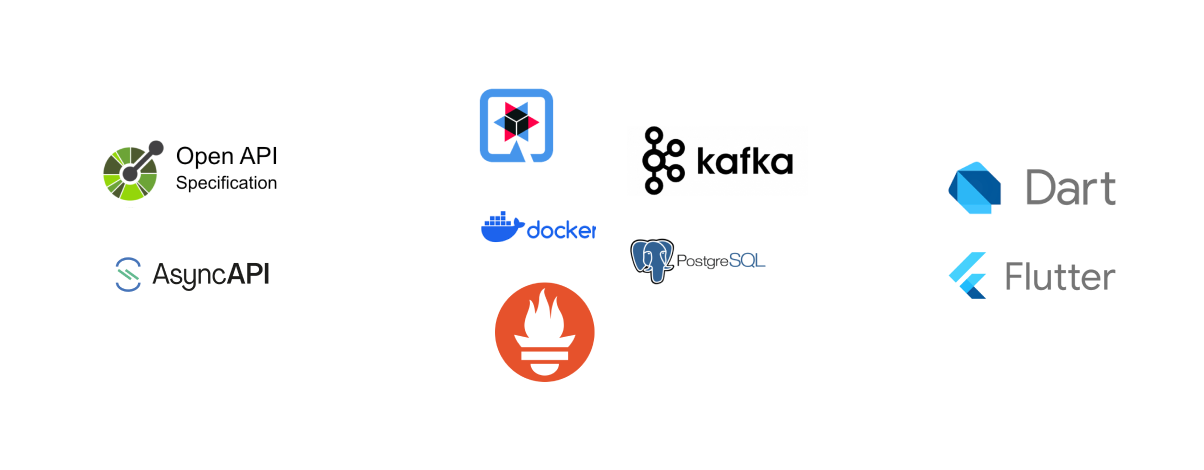
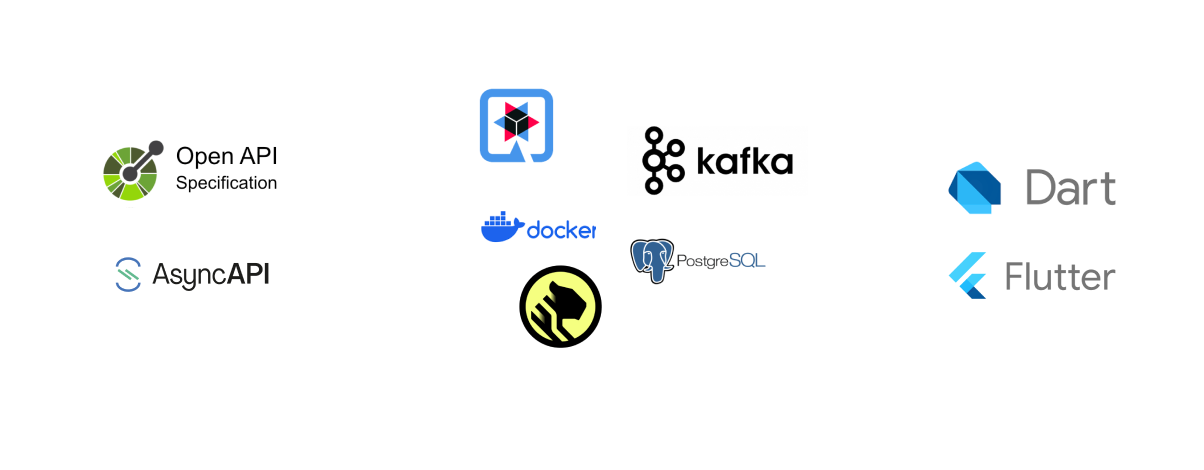
#1 changed picture

Changed region(s): [[0.3995, 0.566, 0.5224, 0.834]]

diff --git a/README.md b/README.md
@@ -56,7 +56,7 @@ For more advanced solutions, the platform provides **Utilization of Custom Cloud
 
 We have carefully selected a robust technology stack for this project. Our chosen technologies are as follows:
 
-![open api, async api, quarkus, kafka, docker, postgre, prometheus, dart, flutter](images/technologies.png "The technologies planned to be used in the Project")
+![open api, async api, quarkus, kafka, docker, postgre, timescale-db, dart, flutter](images/technologies.png "The technologies planned to be used in the Project")
 
 ## Planned Features
 
